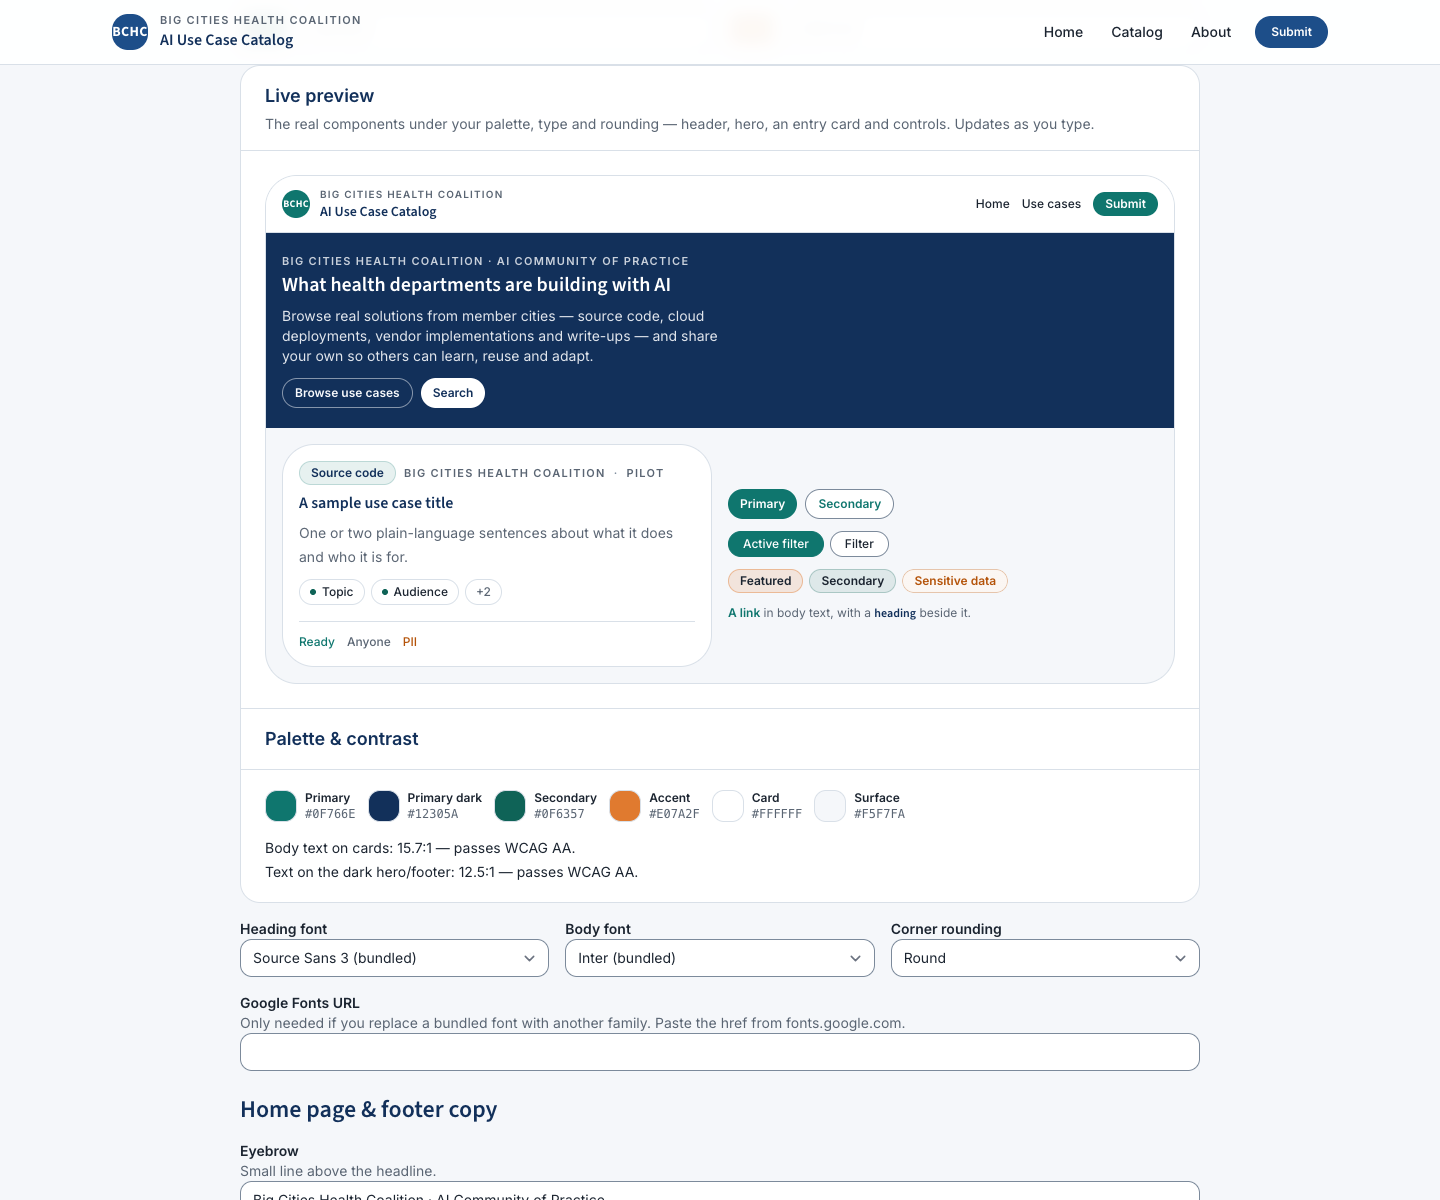
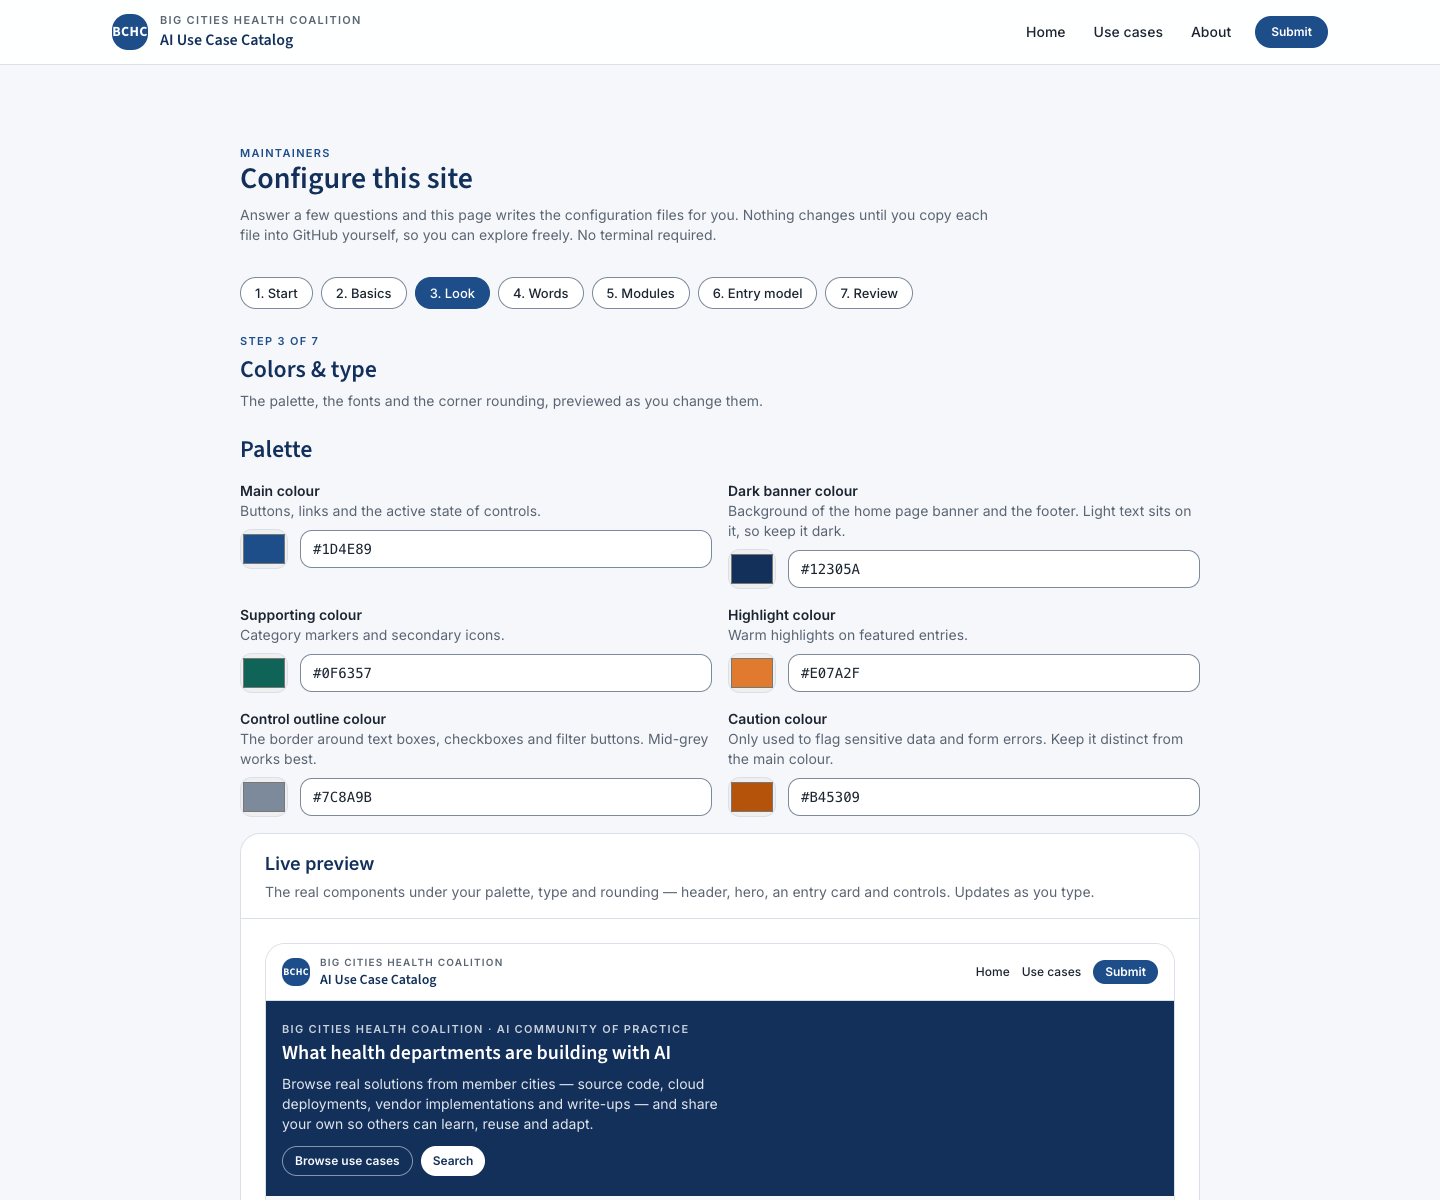
docs: the three branding steps and the flow-test lane
Configuration guide: the wizard's seven steps, with the note that colours,
type and rounding now live on their own step. CONTRIBUTING and ARCHITECTURE
get `npm run test:flows` beside the other gates. The setup screenshot is
retaken on the step that carries the live preview.

diff --git a/docs/configuration.md b/docs/configuration.md
@@ -207,7 +207,8 @@ A no-terminal step-by-step wizard on the deployed site (`setup/index.md` + `asse
 - Loads the site's current configuration (embedded as JSON in the page) so you're editing forward from what's live, not starting over.
 - Offers the same four presets as the CLI: **AI use case catalog**, **Program / cohort portal**, **Resource library**, **Blank catalog**.
 - Lets you edit branding, colors/fonts, module toggles, and the schema's field list (including adding/renaming/removing fields) with validation.
-- Shows a **live preview** on the Branding step — a miniature of the real header, hero, entry card and controls, rendered from the production stylesheet under your palette, type and corner rounding — next to the palette swatches and WCAG contrast checks. It updates as you type.
+- Asks its branding questions over three short steps rather than one long one — **Basics** (site and organization names, contact, repository), **Colors & type** (palette, fonts, corner rounding) and **Home page & footer copy** — so no step is more than a screen or two.
+- Shows a **live preview** on the Colors & type step — a miniature of the real header, hero, entry card and controls, rendered from the production stylesheet under your palette, type and corner rounding — next to the palette swatches and WCAG contrast checks. It updates as you type.
 - Lists the entry model's fields as **collapsed rows** — one summary line each (label, key, type, and badges for required / filter / card / searchable / group) behind an expand button. Only the row you open shows its controls, so the step stays a screen or two rather than a mile of form. Open rows stay open as you edit, and a validation error re-opens the row it blames.
 - Keeps that step's actions (**Add a field**, **Back**, **Continue**) pinned to the bottom of the viewport, so you never have to scroll back up to move on.
 - Lets each field's **Show on card** toggle also pick the card slot (`badge`, `meta`, `line`, `chip`, `icon`) when the field's type fits one; leave it on **Automatic** to let the card choose from the type. See `card` in `docs/content-model.md`.
@@ -216,9 +217,9 @@ A no-terminal step-by-step wizard on the deployed site (`setup/index.md` + `asse
 - Saves your answers in the browser as you go (a resume banner appears if you return with unfinished progress).
 - Produces copy/download/"open in GitHub, pre-filled" links for each generated file — nothing is pushed automatically; you commit the files yourself via the GitHub UI or by pulling them locally.
 
-| Branding step | Entry model step |
+| Colors & type step | Entry model step |
 | --- | --- |
-| ![Branding step: live preview of the header, hero, an entry card and controls under a teal palette, with palette swatches and WCAG contrast readouts below.](images/setup-branding.png) | ![Entry model step: the schema's fields as collapsed rows with key, type and badge chips, and a sticky action bar with Back, Add a field, Start over and Continue.](images/setup-entry-model.png) |
+| ![Colors & type step: the seven step pills, the six palette fields with their swatches, and the live preview of the real header, hero and entry card under them.](images/setup-branding.png) | ![Entry model step: the schema's fields as collapsed rows with key, type and badge chips, and a sticky action bar with Back, Add a field, Start over and Continue.](images/setup-entry-model.png) |
 
 ### `npm run setup` — CLI wizard
 

diff --git a/CONTRIBUTING.md b/CONTRIBUTING.md
@@ -33,6 +33,7 @@ Run these before opening a pull request; `validate.yml` and `quality.yml` run th
 | `npm run validate` | Every `_data/*.yml` parses; every entry's front matter passes `scripts/check_front_matter.rb`; no oversize files. |
 | `npm run build:css && bundle exec jekyll build` | The site builds without Liquid errors. |
 | `npm run a11y` | pa11y-ci (axe + HTML_CodeSniffer, WCAG 2 AA) over the pages in `quality/pa11yci.js` (sample entry URLs are discovered from the built site). Needs the built site served on port 4173: `python3 -m http.server 4173 --directory _site &`. |
+| `npm run test:flows` | The assistive-technology flow tests (`test/a11y/flows.test.mjs`): keyboard-only walkthroughs — home → catalog → filter → entry → Back, search → result, the submission form's errors, the setup wizard's first step change — asserting focus order, a visible focus ring, live-region announcements and no dead ends. Needs the same served build as `npm run a11y`, plus puppeteer (`npm install --no-save puppeteer@$(node -p "require('./quality/package.json').devDependencies.puppeteer")`). Point it elsewhere with `FLOW_BASE_URL`. |
 | `npm run lighthouse` | Lighthouse CI (`quality/lighthouserc.js`) against the same local server; accessibility ≥ 0.95 is required, other categories warn. |
 
 ## Ground rules

diff --git a/ARCHITECTURE.md b/ARCHITECTURE.md
@@ -125,6 +125,10 @@ committed. Fonts are self-hosted latin woff2 subsets (`assets/fonts/README.md`).
 - `npm run validate` — parses every `_data/*.yml`, then runs the front-matter and file-size checks.
 - `npm run a11y` / `npm run lighthouse` — the same audits `quality.yml` runs, against a local server
   on port 4173 (see `CONTRIBUTING.md`).
+- `npm run test:flows` — `test/a11y/flows.test.mjs`, keyboard-only walkthroughs in a real browser
+  against that same server. Skipped by a bare `node --test` (RUN_FLOW_TESTS), and the third audit
+  lane in `quality.yml`: it catches what a per-page audit cannot, the seams between pages and
+  states (focus order, focus rings, live-region announcements, dead ends).
 
 ## Design principles
 
